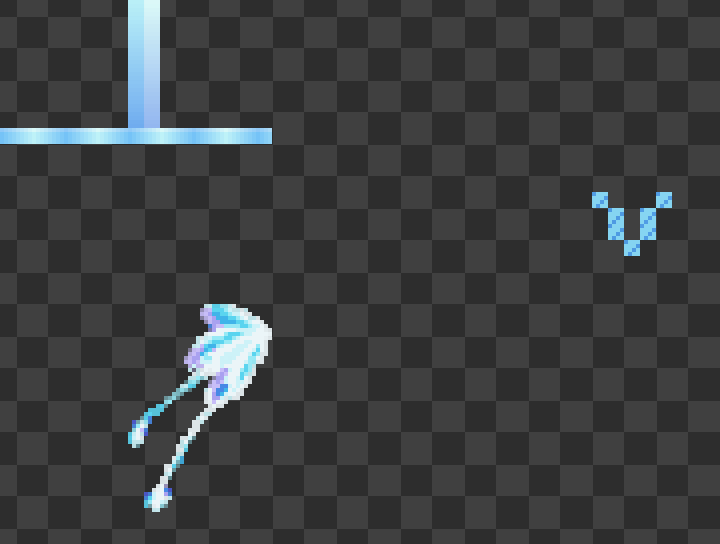
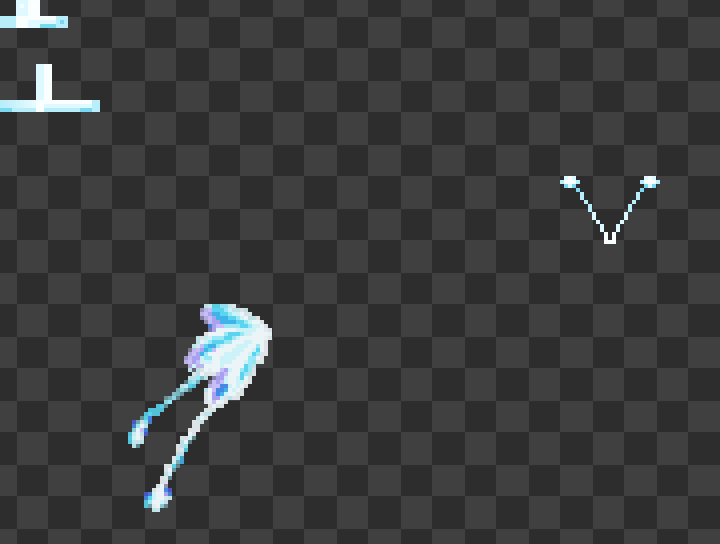
8

Changed region(s): [[0.0, 0.0, 0.3972, 0.2812], [0.7639, 0.3125, 0.9472, 0.4688], [0.0, 0.0, 0.0917, 0.0625]]

diff --git a/src/main/java/com/sange/ambientgogga/client/model/ButterflyModel.java b/src/main/java/com/sange/ambientgogga/client/model/ButterflyModel.java
@@ -2,6 +2,7 @@ package com.sange.ambientgogga.client.model;
 
 import com.sange.ambientgogga.AmbientGogga;
 import com.sange.ambientgogga.entity.Butterfly;
+import java.util.Set;
 import net.minecraft.client.model.HierarchicalModel;
 import net.minecraft.client.model.geom.ModelLayerLocation;
 import net.minecraft.client.model.geom.ModelPart;
@@ -10,12 +11,17 @@ import net.minecraft.client.model.geom.builders.CubeListBuilder;
 import net.minecraft.client.model.geom.builders.LayerDefinition;
 import net.minecraft.client.model.geom.builders.MeshDefinition;
 import net.minecraft.client.model.geom.builders.PartDefinition;
+import net.minecraft.core.Direction;
 import net.minecraft.resources.ResourceLocation;
 import net.minecraft.util.Mth;
 
 public final class ButterflyModel extends HierarchicalModel<Butterfly> {
     public static final ModelLayerLocation LAYER_LOCATION = new ModelLayerLocation(
             ResourceLocation.fromNamespaceAndPath(AmbientGogga.MODID, "butterfly"),
+            "main"
+    );
+    public static final ModelLayerLocation SHICHIEICHOU_LAYER_LOCATION = new ModelLayerLocation(
+            ResourceLocation.fromNamespaceAndPath(AmbientGogga.MODID, "shichieichou"),
             "main"
     );
 
@@ -97,6 +103,75 @@ public final class ButterflyModel extends HierarchicalModel<Butterfly> {
                         .mirror()
                         .addBox(0.0F, -7.0F, 0.0F, 0.0F, 13.0F, 8.0F),
                 PartPose.offsetAndRotation(-1.0F, -0.5F, 2.0F, 1.5708F, 0.0F, -0.7854F)
+        );
+        return LayerDefinition.create(mesh, 64, 64);
+    }
+
+    public static LayerDefinition createShichieichouLayer() {
+        MeshDefinition mesh = new MeshDefinition();
+        PartDefinition root = mesh.getRoot();
+        PartDefinition group = root.addOrReplaceChild("group", CubeListBuilder.create(), PartPose.ZERO);
+        PartDefinition body = group.addOrReplaceChild(
+                "body",
+                CubeListBuilder.create(),
+                PartPose.offsetAndRotation(0.0F, 24.0F, 0.0F, 0.0F, 0.0F, 0.0F)
+        );
+        PartDefinition anatomy = body.addOrReplaceChild(
+                "anatomy",
+                CubeListBuilder.create(),
+                PartPose.offset(0.0F, 0.0F, -3.9F)
+        );
+        anatomy.addOrReplaceChild(
+                "thorax",
+                CubeListBuilder.create()
+                        .texOffs(0, 0)
+                        .addBox(-0.35F, -0.65F, 0.375F, 0.7F, 0.7F, 1.0F),
+                PartPose.ZERO
+        );
+        anatomy.addOrReplaceChild(
+                "abdomen",
+                CubeListBuilder.create()
+                        .texOffs(0, 4)
+                        .addBox(-0.23F, -0.53F, 1.25F, 0.46F, 0.46F, 2.375F),
+                PartPose.ZERO
+        );
+        anatomy.addOrReplaceChild(
+                "antennae",
+                CubeListBuilder.create()
+                        .texOffs(29, 11)
+                        .addBox(-3.0F, -4.0F, 0.0F, 6.0F, 4.0F, 0.0F),
+                PartPose.offsetAndRotation(0.0F, -0.4F, 0.4F, 1.0472F, 0.0F, 0.0F)
+        );
+        body.addOrReplaceChild(
+                "leftWing",
+                CubeListBuilder.create()
+                        .texOffs(8, 11)
+                        .addBox(
+                                0.0F,
+                                -7.0F,
+                                0.0F,
+                                0.0F,
+                                13.0F,
+                                8.0F,
+                                Set.of(Direction.WEST)
+                        ),
+                PartPose.offsetAndRotation(0.3F, -0.5F, 2.0F, 1.5708F, 0.0F, 0.7854F)
+        );
+        body.addOrReplaceChild(
+                "rightWing",
+                CubeListBuilder.create()
+                        .texOffs(8, 11)
+                        .mirror()
+                        .addBox(
+                                0.0F,
+                                -7.0F,
+                                0.0F,
+                                0.0F,
+                                13.0F,
+                                8.0F,
+                                Set.of(Direction.WEST)
+                        ),
+                PartPose.offsetAndRotation(-0.3F, -0.5F, 2.0F, 1.5708F, 0.0F, -0.7854F)
         );
         return LayerDefinition.create(mesh, 64, 64);
     }

diff --git a/src/main/java/com/sange/ambientgogga/client/renderer/ButterflyRenderer.java b/src/main/java/com/sange/ambientgogga/client/renderer/ButterflyRenderer.java
@@ -8,12 +8,17 @@ import net.minecraft.client.renderer.RenderType;
 import net.minecraft.client.renderer.entity.EntityRendererProvider;
 import net.minecraft.client.renderer.entity.MobRenderer;
 import net.minecraft.core.BlockPos;
+import net.minecraft.client.model.geom.ModelLayerLocation;
 import net.minecraft.resources.ResourceLocation;
 import net.minecraft.util.Mth;
 
-public final class ButterflyRenderer extends MobRenderer<Butterfly, ButterflyModel> {
+public class ButterflyRenderer extends MobRenderer<Butterfly, ButterflyModel> {
     public ButterflyRenderer(EntityRendererProvider.Context context) {
-        super(context, new ButterflyModel(context.bakeLayer(ButterflyModel.LAYER_LOCATION)), 0.2F);
+        this(context, ButterflyModel.LAYER_LOCATION);
+    }
+
+    protected ButterflyRenderer(EntityRendererProvider.Context context, ModelLayerLocation layer) {
+        super(context, new ButterflyModel(context.bakeLayer(layer)), 0.2F);
     }
 
     @Override
@@ -26,7 +31,7 @@ public final class ButterflyRenderer extends MobRenderer<Butterfly, ButterflyMod
             Butterfly butterfly,
             boolean bodyVisible,
             boolean translucent,
-        boolean glowing
+            boolean glowing
     ) {
         if (butterfly instanceof Shichieichou && bodyVisible) {
             return RenderType.entityCutoutNoCull(this.getTextureLocation(butterfly));

diff --git a/src/main/java/com/sange/ambientgogga/AmbientGoggaClient.java b/src/main/java/com/sange/ambientgogga/AmbientGoggaClient.java
@@ -4,6 +4,7 @@ import com.sange.ambientgogga.client.model.ButterflyModel;
 import com.sange.ambientgogga.client.particle.FireflyParticle;
 import com.sange.ambientgogga.client.particle.ShichieichouTrailParticle;
 import com.sange.ambientgogga.client.renderer.ButterflyRenderer;
+import com.sange.ambientgogga.client.renderer.ShichieichouRenderer;
 import com.sange.ambientgogga.entity.ModEntities;
 import com.sange.ambientgogga.particle.ModParticles;
 import net.neoforged.api.distmarker.Dist;
@@ -27,10 +28,14 @@ public class AmbientGoggaClient {
 
     private static void registerEntityRenderers(EntityRenderersEvent.RegisterRenderers event) {
         event.registerEntityRenderer(ModEntities.BUTTERFLY.get(), ButterflyRenderer::new);
-        event.registerEntityRenderer(ModEntities.SHICHIEICHOU.get(), ButterflyRenderer::new);
+        event.registerEntityRenderer(ModEntities.SHICHIEICHOU.get(), ShichieichouRenderer::new);
     }
 
     private static void registerLayerDefinitions(EntityRenderersEvent.RegisterLayerDefinitions event) {
         event.registerLayerDefinition(ButterflyModel.LAYER_LOCATION, ButterflyModel::createBodyLayer);
+        event.registerLayerDefinition(
+                ButterflyModel.SHICHIEICHOU_LAYER_LOCATION,
+                ButterflyModel::createShichieichouLayer
+        );
     }
 }

diff --git a/src/main/java/com/sange/ambientgogga/client/renderer/ShichieichouRenderer.java b/src/main/java/com/sange/ambientgogga/client/renderer/ShichieichouRenderer.java
@@ -1,0 +1,10 @@
+package com.sange.ambientgogga.client.renderer;
+
+import com.sange.ambientgogga.client.model.ButterflyModel;
+import net.minecraft.client.renderer.entity.EntityRendererProvider;
+
+public final class ShichieichouRenderer extends ButterflyRenderer {
+    public ShichieichouRenderer(EntityRendererProvider.Context context) {
+        super(context, ButterflyModel.SHICHIEICHOU_LAYER_LOCATION);
+    }
+}
